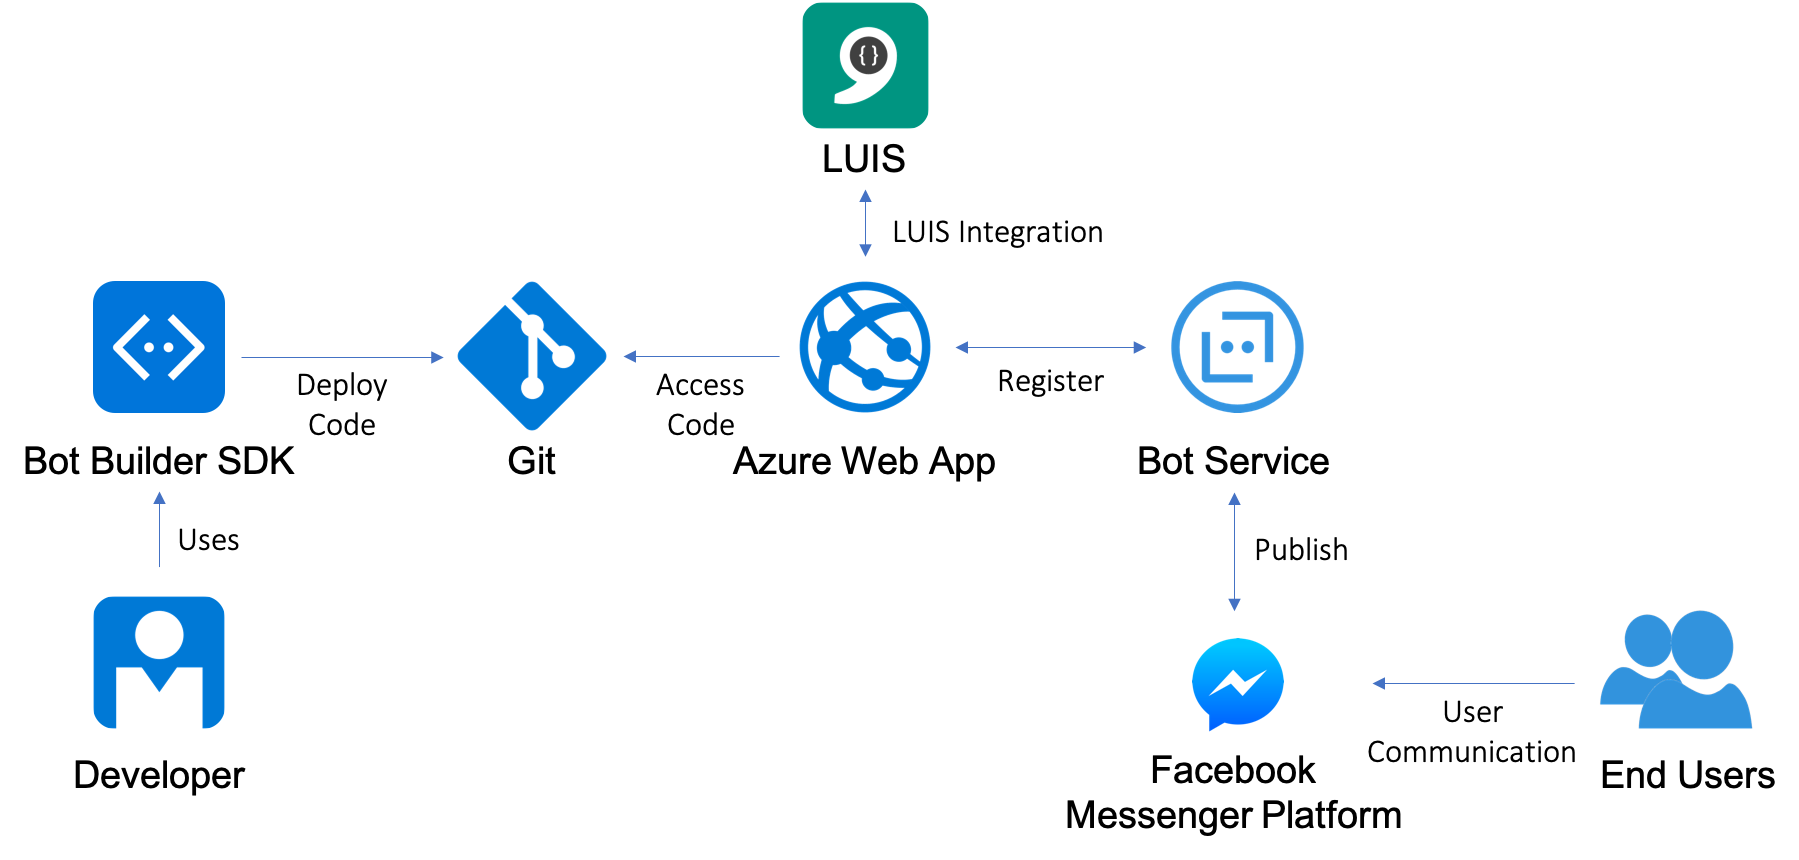
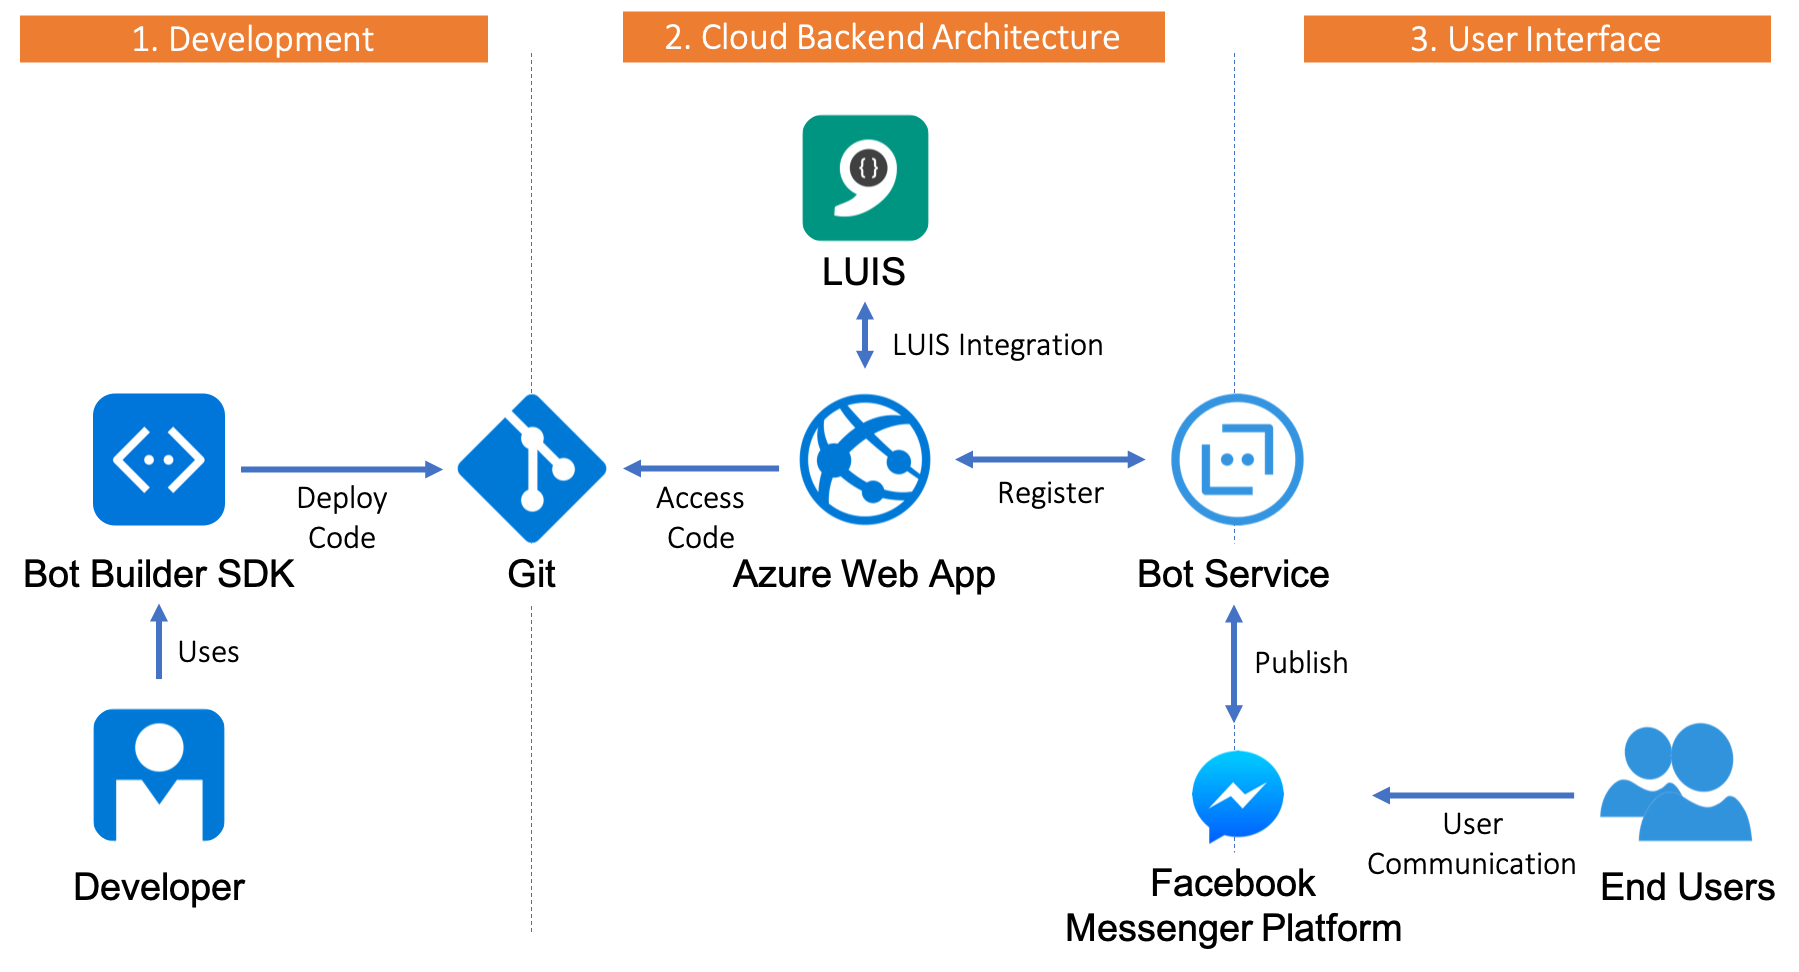
Update architecture diagram and description

diff --git a/README.md b/README.md
@@ -10,6 +10,10 @@ See [Wiki](https://github.com/chialiyun/SGSupermarketChatbot/wiki) for more deta
 ### Architecture Diagram
 ![Architecture diagram](https://github.com/chialiyun/SGSupermarketChatbot/blob/master/image/Architecture%20Diagram.png)
 
+1. The developer creates the chatbot using Microsoft Bot Framework (Bot Builder SDK) and deploy the code into GitHub for version control.
+2. Azure Cloud Services is used to host the Chatbot. An Azure Web App is created to provide the endpoint for the web service that will be used to point at to access the chatbot and connect to Bot Service for publication of the Chatbot to other channels (Facebook Messenger in particular for SG Supermarket Chatbot). It get access to the codes via GitHub repository. Language Understanding Intelligent Service (LUIS) is used and connected to the Web App to bring intelligence to the chatbot to behave just like like human.
+3. Having published the application to the platform, end-users then interact with the chatbot
+
 ### Prerequisites:
 1. Install [NodeJS](https://nodejs.org/dist/v8.12.0/node-v8.12.0-x64.msi) - Programming Language used for SG Supermarket 
 2. Install [Visual Studio Code*](https://code.visualstudio.com/) - You may use this code editor to edit your codes
